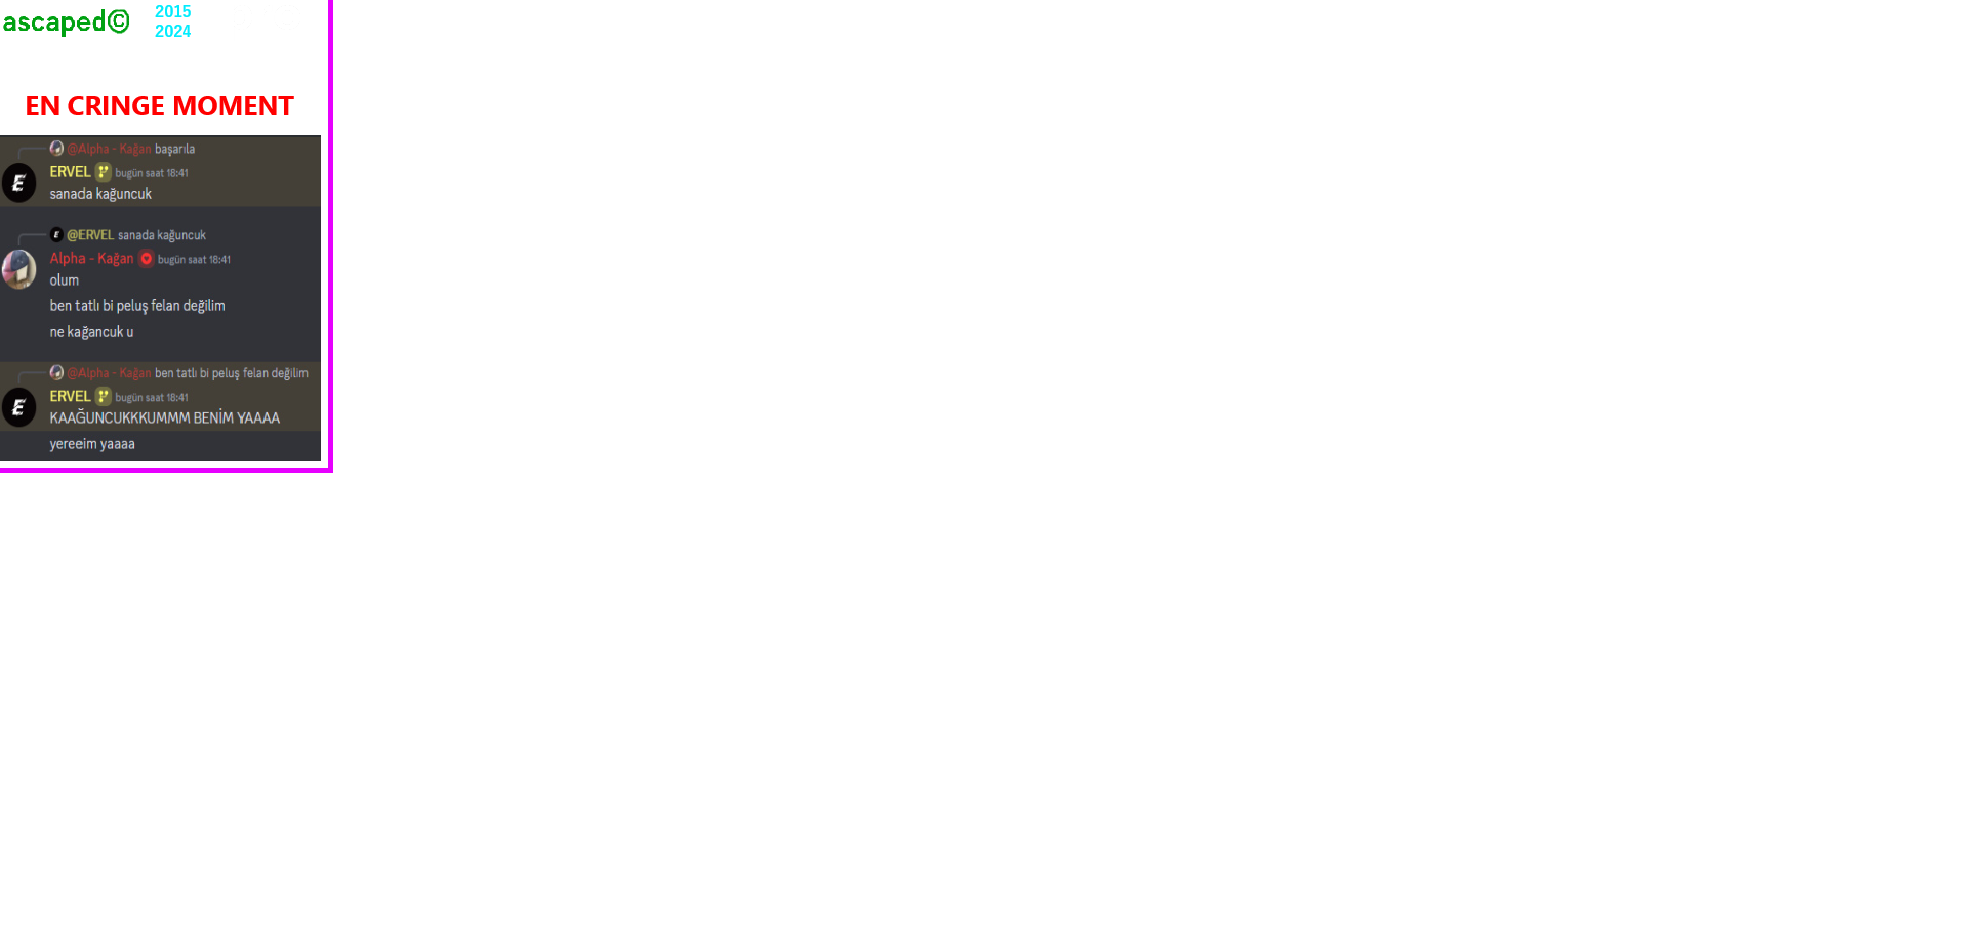
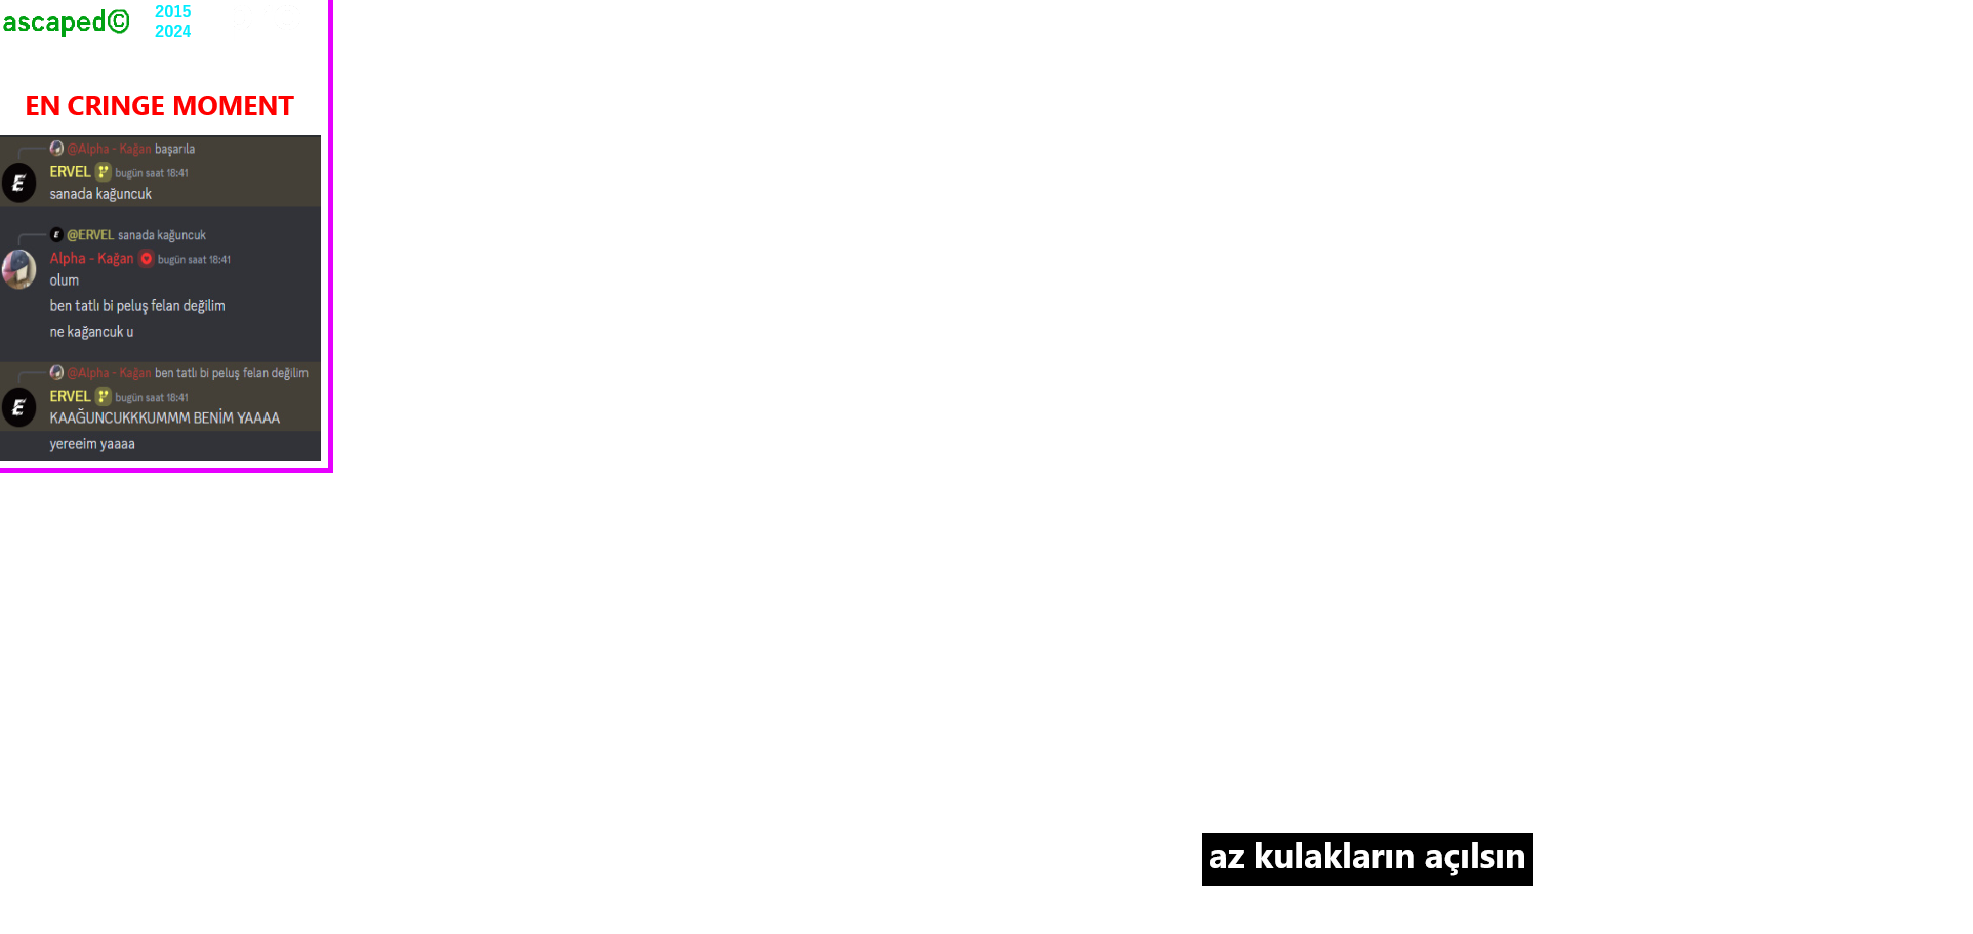
Updated website with new styles and sound feature

Changed region(s): [[0.5874, 0.8694, 0.8039, 0.9625]]

diff --git a/index.html b/index.html
@@ -43,10 +43,21 @@
     </div>
   </div>
 
-  <!-- Add sound effect -->
-  <audio id="pageSound" autoplay>
+  <!-- Ses ikonunu buraya ekliyoruz -->
+  <img src="bruhxd.png" class="sound-icon" alt="Ses oynat" onclick="playSound()">
+
+  <!-- Audio element -->
+  <audio id="pageSound">
     <source src="onsight.mp3" type="audio/mpeg">
   </audio>
+
+  <!-- JavaScript ile sesi oynatma fonksiyonu -->
+  <script>
+    function playSound() {
+      var audio = document.getElementById("pageSound");
+      audio.play();
+    }
+  </script>
 
   <script src="script.js"></script>
 </body>

diff --git a/styles.css b/styles.css
@@ -21,7 +21,7 @@
   left: 0;
   width: 100%;
   height: 100%;
-  background-image: url('background.png');
+  background-image: url('bg31.png');
   background-size: cover;
   background-position: center;
   z-index: -1;
@@ -94,3 +94,12 @@
     color: white;
   }
   
+  /* Ses İkonu Stili */
+.sound-icon {
+  position: absolute;
+  bottom: 20px; /* İkonun alt konumu */
+  right: 20px;  /* İkonun sağ konumu */
+  width: 50px;  /* İkon genişliği */
+  height: 50px; /* İkon yüksekliği */
+  cursor: pointer; /* Fare ile tıklanabilirlik */
+}
